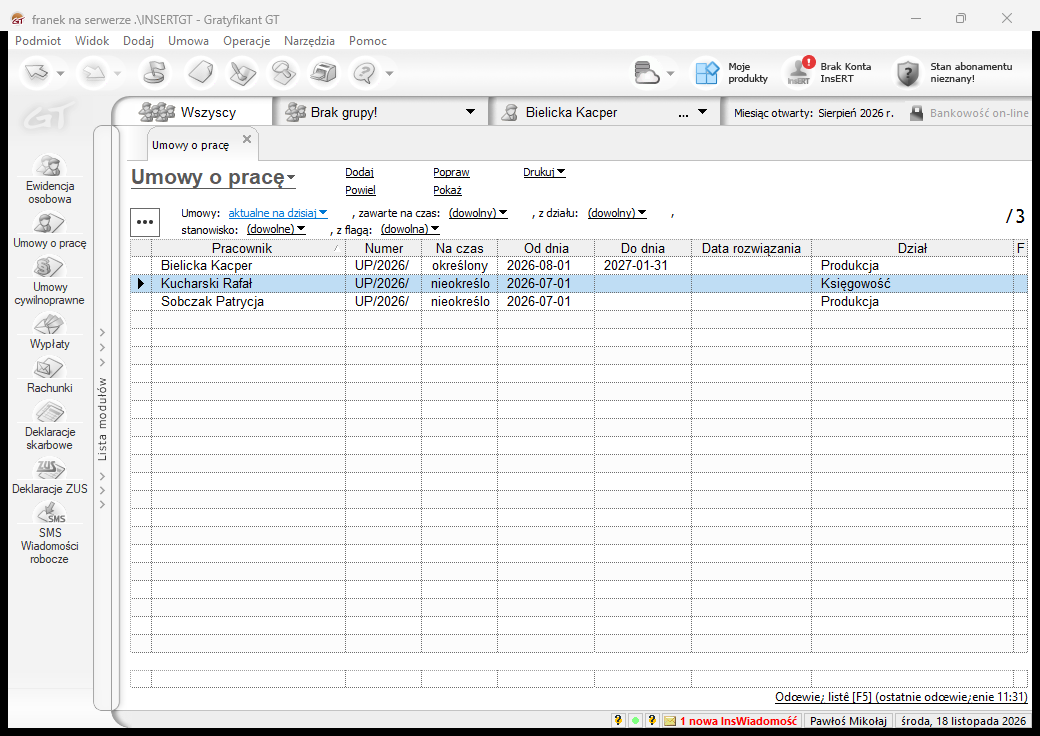
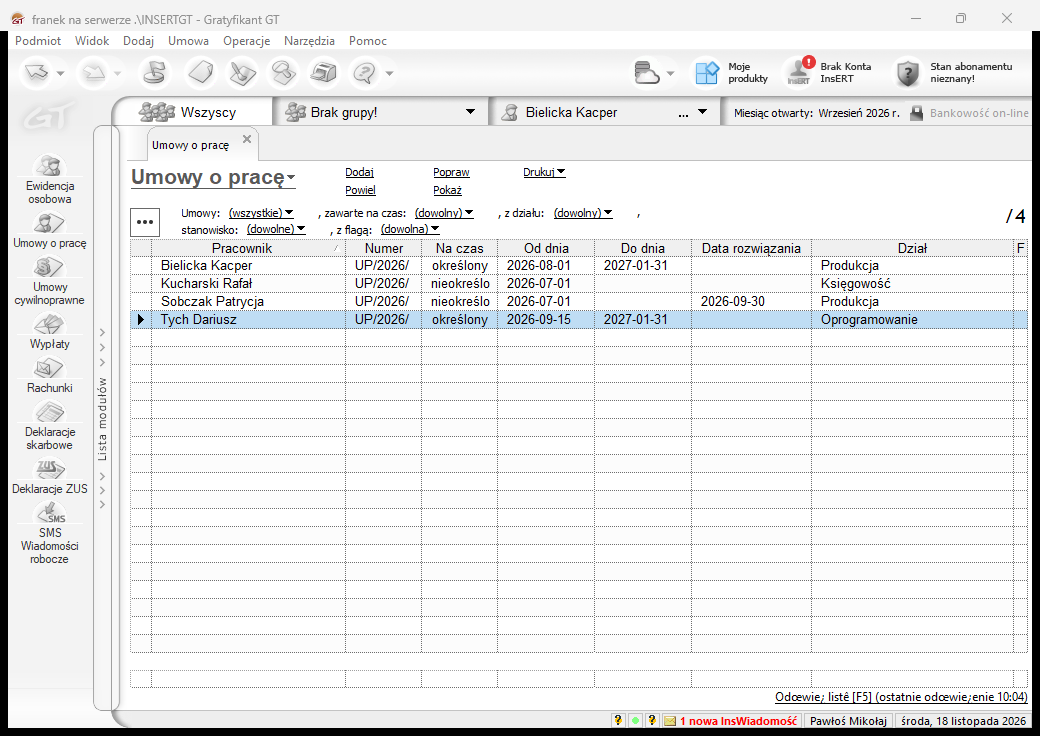
Zadania 21-25: rozwiazanie umowy, ekwiwalent, ZWUA, listy plac wrzesien, zaswiadczenie

diff --git a/sprawozdanie.md b/sprawozdanie.md
@@ -212,41 +212,47 @@ Wygenerowana deklaracja ZUS ZUA (zgłoszenie do ubezpieczeń) dla Dariusza Tycha
 
 ## Zadanie 21
 
-![Zadanie 21](zad21.png)
+Umowa o pracę Patrycji Sobczak rozwiązana z dniem 30.09.2026, przyczyna: „100 – Porozumienie stron art. 30 § 1 pkt 1 k.p.” (Operacje → Rozwiąż umowę).
+
+![Zadanie 21 (a) – rozwiązanie umowy](zad21a.png)
+
+![Zadanie 21 (b) – lista umów z datą rozwiązania](zad21b.png)
 
 
 ## Zadanie 22
 
-![Zadanie 22 (a)](zad22a.png)
+Naliczono ekwiwalent za urlop na dzień 30.09.2026 (składniki stałe z bieżącego miesiąca, zmienne z 3 miesięcy), wypłacany w wypłacie za wrzesień 2026. W zadaniu nie podano liczby godzin, więc przyjęto 56 h (7 dni po 8 h – proporcjonalnie do 3 miesięcy zatrudnienia). Podgląd świadectwa pracy za okres 1.07–30.09.2026.
 
-![Zadanie 22 (b)](zad22b.png)
+![Zadanie 22 (a) – ekwiwalent za urlop](zad22a.png)
 
-![Zadanie 22 (c)](zad22c.png)
-
-![Zadanie 22 (d)](zad22d.png)
+![Zadanie 22 (b) – świadectwo pracy (podgląd)](zad22b.png)
 
 
 ## Zadanie 23
 
-![Zadanie 23 (a)](zad23a.png)
+Wygenerowana deklaracja ZUS ZWUA wyrejestrowująca Patrycję Sobczak: data zgłoszenia 30.09.2026, data wyrejestrowania 1.10.2026, kod rozwiązania stosunku pracy „24R – wypowiedzenie przez pracownika”.
 
-![Zadanie 23 (b)](zad23b.png)
+![Zadanie 23](zad23a.png)
 
 
 ## Zadanie 24
 
-![Zadanie 24](zad24.png)
+Listy płac za wrzesień 2026 (Administracja, Robotnicy, Pion oprogramowania) oraz rachunek do umowy zlecenia (30.09.2026, 3 000 zł brutto). Pierwotnie wypłata Dariusza Tycha wyszła zerowa, bo składnik „Podstawa miesięczna” nie był przypisany do jego definicji wypłaty – po przypisaniu (zadanie 19) wypłata została wygenerowana ponownie (4 091,20 zł brutto za część miesiąca).
 
-![Zadanie 24 (b)](zad24b.png)
+![Zadanie 24 (a) – raport z naliczenia wypłat](zad24a.png)
 
-![Zadanie 24 (c)](zad24c.png)
+![Zadanie 24 (b) – wypłaty](zad24b.png)
+
+![Zadanie 24 (c) – rachunek](zad24c.png)
 
 
 ## Zadanie 25
 
-![Zadanie 25 (a)](zad25a.png)
+Zaświadczenie o zatrudnieniu i wynagrodzeniu Rafała Kucharskiego z datą 1.10.2026, wynagrodzenie brutto z okresu 1.07–30.09.2026 jako suma (wg miesiąca wypłaty): 21 620,08 zł.
 
-![Zadanie 25 (b)](zad25b.png)
+![Zadanie 25 (a) – ustawienia wydruku](zad25a.png)
+
+![Zadanie 25 (b) – podgląd zaświadczenia](zad25b.png)
 
 
 ## Zadanie 26
